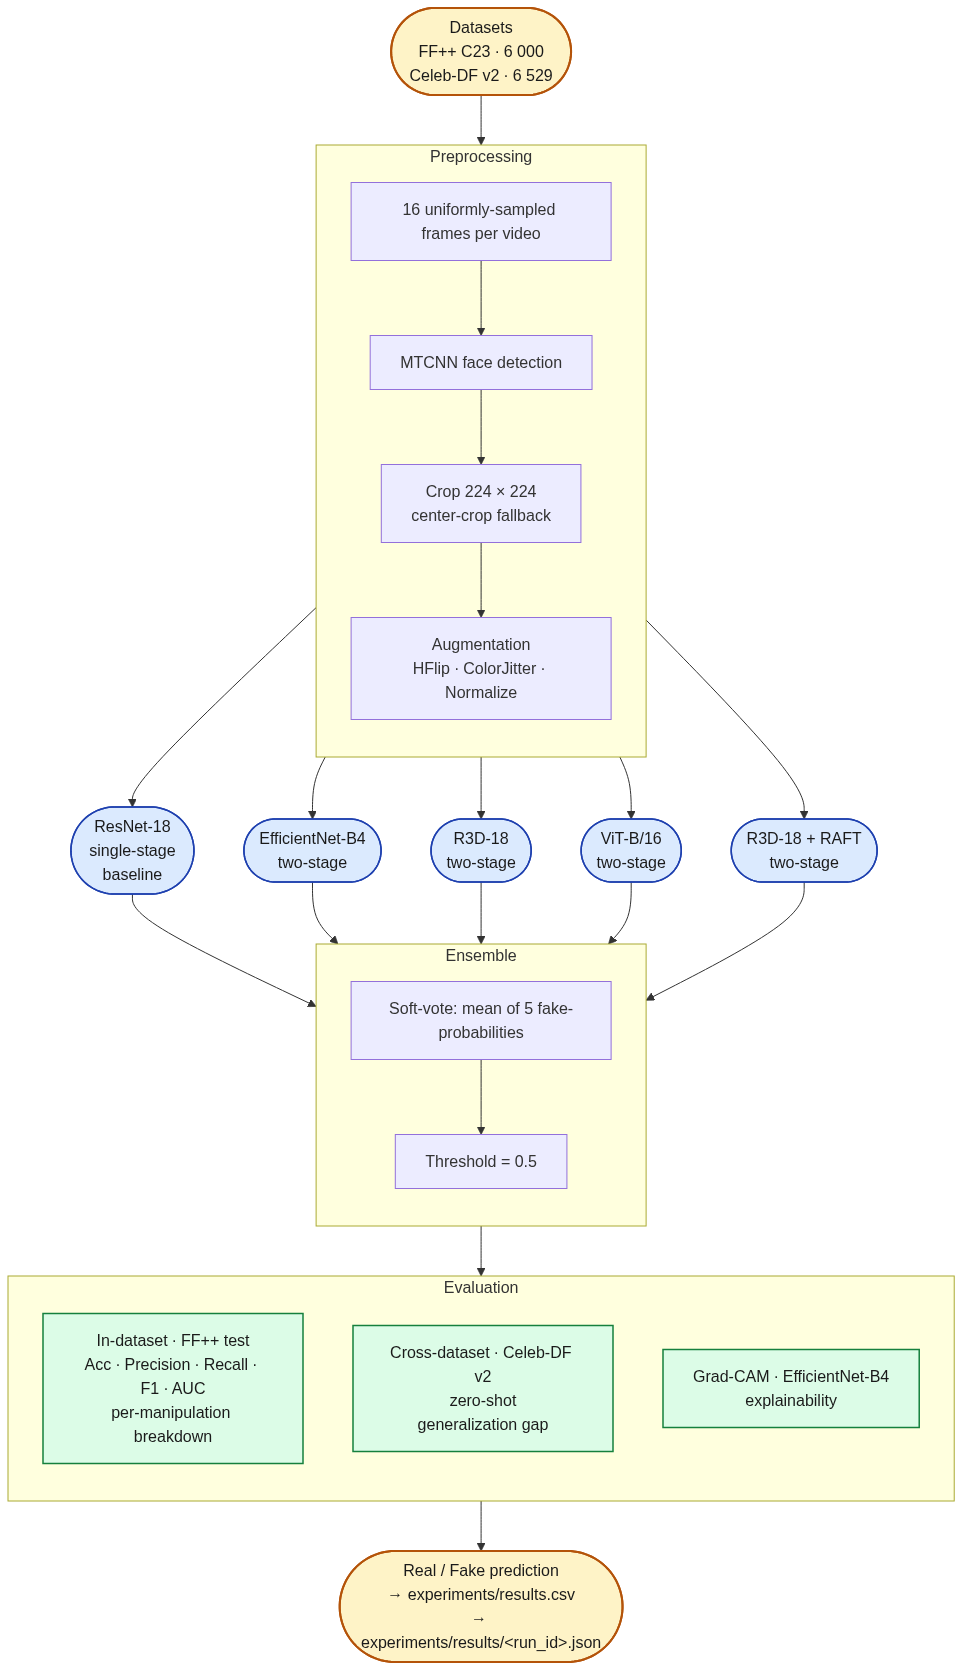
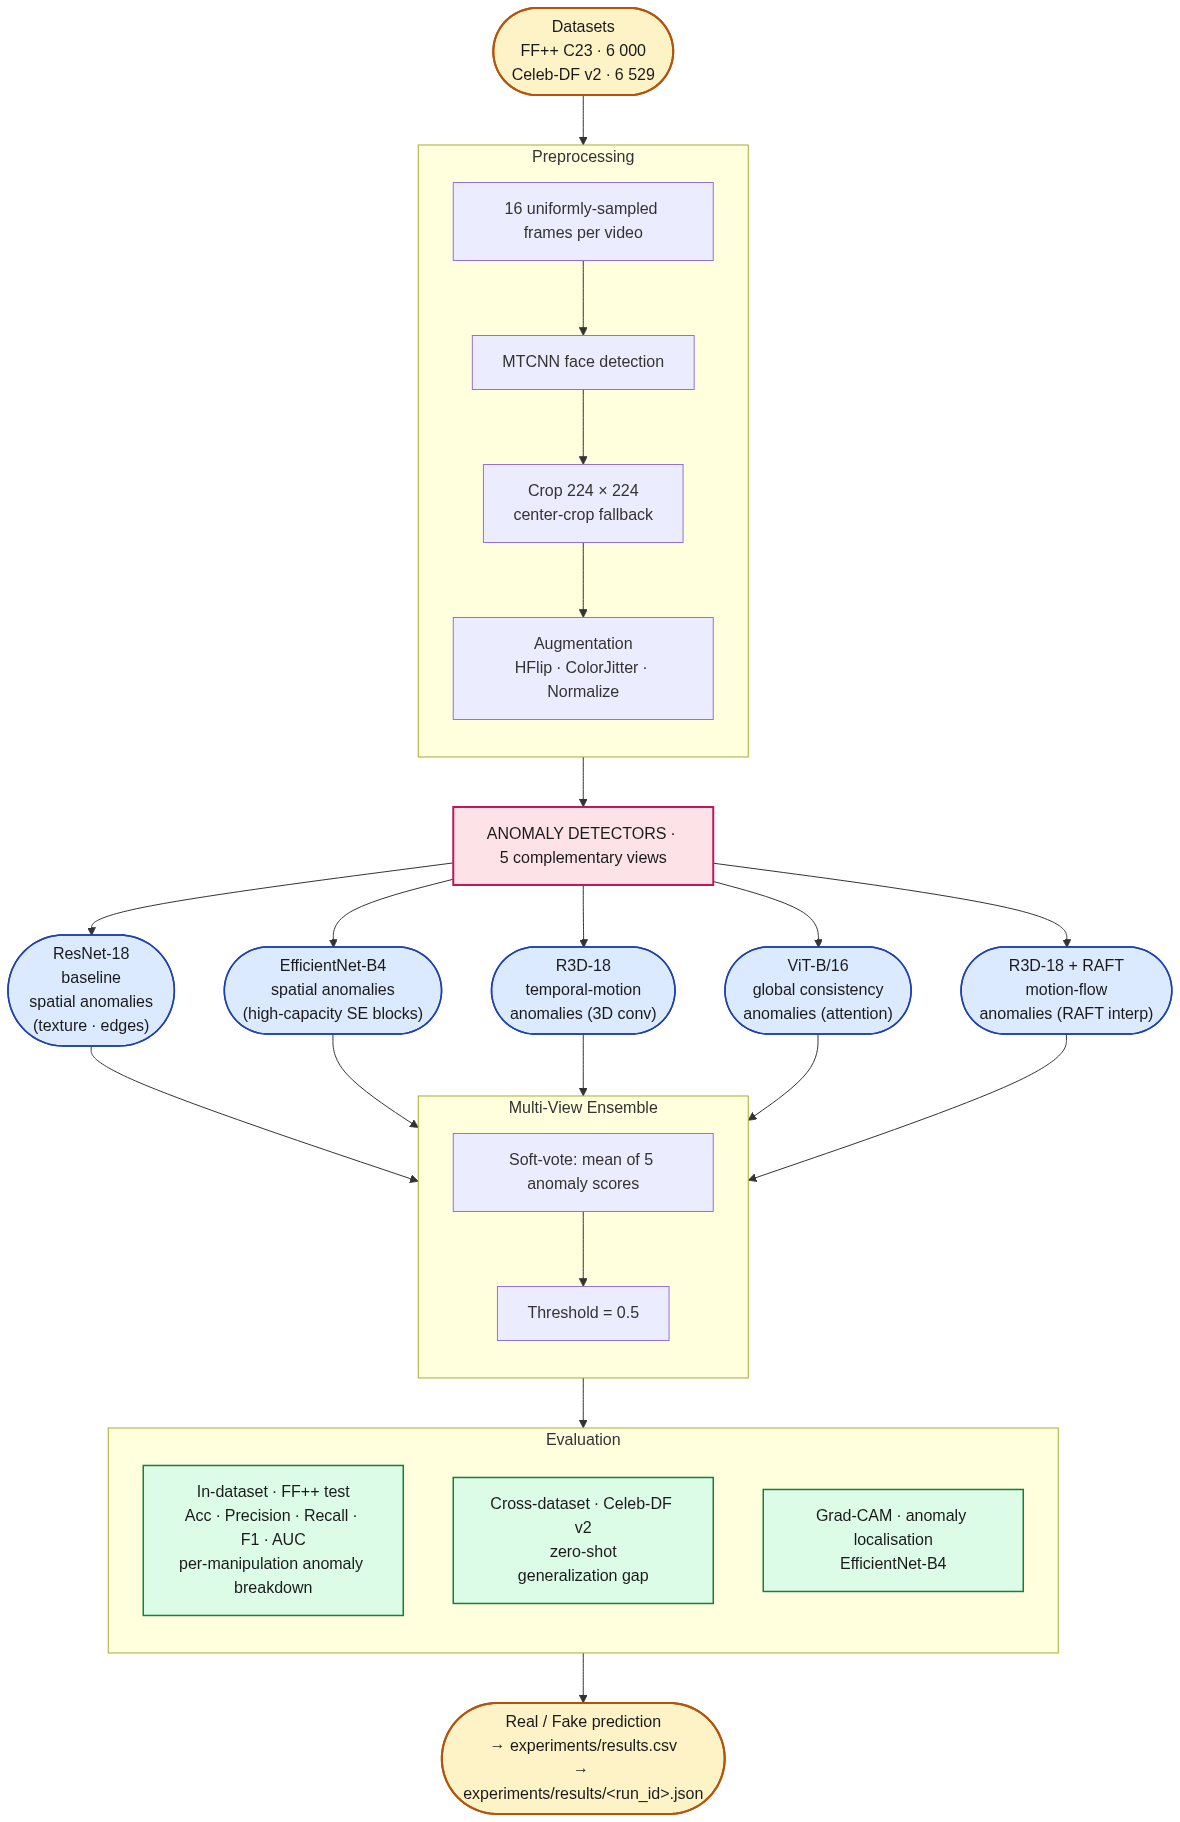
docs: add anomaly-detection framing to architecture diagram + paper sections

Changed region(s): [[0.0, 0.0, 0.9979, 0.9964]]

diff --git a/docs/design/paper_sections/anomaly_paragraphs.tex b/docs/design/paper_sections/anomaly_paragraphs.tex
@@ -1,0 +1,42 @@
+% ============================================================
+% Paper passages (Abstract + Introduction) threading the anomaly
+% detection framing through the paper's opening.
+% Paste these to replace the corresponding blocks in the draft.
+% ============================================================
+
+
+%% ------------------------------------------------------------
+%% ABSTRACT (replaces the template placeholder)
+%% ------------------------------------------------------------
+
+\begin{abstract}
+Deepfake detection is fundamentally an anomaly-detection problem: real faces occupy a manifold of plausible appearance and motion, and every face-manipulation technique introduces deviations from that manifold. Single-architecture detectors typically capture only one class of anomaly and consequently fail to transfer across datasets. We address this by framing detection as multi-view anomaly aggregation over five independently-trained models spanning three anomaly classes: spatial (ResNet-18 and EfficientNet-B4), global-consistency (Vision Transformer ViT-B/16), and temporal-motion (R3D-18, with and without RAFT optical-flow interpolation). Each model is trained on FaceForensics++ C23 under an identity-component-based split, and their per-video anomaly scores are combined via equal-weight soft voting. We evaluate in-dataset performance on FaceForensics++, zero-shot cross-dataset transfer on Celeb-DF v2, and per-manipulation breakdown across the five FaceForensics++ fake families. Grad-CAM overlays on the final convolutional stage of EfficientNet-B4 provide pixel-level anomaly localisation, confirming that detection attends to blending boundaries and manipulation-prone facial regions rather than spurious background cues. The ensemble's FaceForensics++ \(\rightarrow\) Celeb-DF generalisation gap quantifies the degree to which the learned anomaly signatures are dataset-specific versus transferable, and is the paper's primary empirical contribution.
+\end{abstract}
+
+
+%% ------------------------------------------------------------
+%% INTRODUCTION (augments the existing section with anomaly-framing paragraphs)
+%% Add these three paragraphs immediately after the current introductory paragraphs
+%% that discuss CNN-based detection and before the contributions list.
+%% ------------------------------------------------------------
+
+A productive lens on deepfake detection is to view it as a \textit{multi-view anomaly detection} problem. Real human faces inhabit a manifold in image and motion space that is continuous, internally consistent, and shaped by the physics of light, skin, and muscle. Generative methods — whether they swap identities, transfer expressions, or synthesise speech-driven mouth motion — are structurally incapable of reproducing this manifold exactly. They leave traces: inconsistencies in texture and lighting (spatial anomalies), misaligned relationships between facial landmarks (global consistency anomalies), and incoherent motion patterns across frames (temporal-motion anomalies). A detection model can therefore be understood as a classifier of manifold deviations, where the choice of architecture determines which class of deviation the model is sensitive to.
+
+This perspective motivates the use of multiple, complementary detectors rather than a single model. A per-frame 2D CNN is specialised for spatial-texture anomalies but structurally blind to motion artifacts. A 3D CNN captures motion but at a coarser spatial resolution. A Vision Transformer sees global relationships through attention but may miss fine-grained local cues. A hybrid that feeds optical-flow-interpolated frames into a 3D CNN converts a class of temporal anomalies into spatial ones visible to the same network. No single family dominates on every anomaly type, and recent cross-dataset studies corroborate this: models tend to overfit whichever anomaly class is most prevalent in their training data and fail on unseen data distributions where other anomaly classes dominate \cite{korshunov2022generalization, wang2023crossdf}.
+
+In this work we construct five detectors that together cover the three major anomaly classes, train each on FaceForensics++ C23 under a leakage-free identity split, and combine their per-video scores with equal-weight soft voting. The headline empirical question is whether this multi-view ensemble generalises to a disjoint test distribution (Celeb-DF v2) more reliably than any single detector, and whether the remaining generalisation gap can be explained post-hoc via Grad-CAM anomaly localisation.
+
+
+%% ------------------------------------------------------------
+%% CONTRIBUTIONS (replaces the existing bullet list with an anomaly-framed version)
+%% ------------------------------------------------------------
+
+The main contributions of this work are summarised as follows:
+
+\begin{itemize}
+    \item A framing of binary deepfake detection as multi-view anomaly detection, identifying three complementary anomaly classes (spatial, global-consistency, temporal-motion) and mapping each to an appropriate architectural family.
+    \item A five-model detection pipeline implementing this framing: ResNet-18 and EfficientNet-B4 for spatial anomalies, ViT-B/16 for global-consistency anomalies, and R3D-18 with and without RAFT optical-flow interpolation for temporal-motion anomalies, trained under a shared MTCNN-based preprocessing pipeline on FaceForensics++ C23 with an identity-component-based 70/15/15 split.
+    \item An equal-weight soft-vote ensemble that combines the five anomaly signatures, evaluated in-dataset on FaceForensics++ and zero-shot on Celeb-DF v2, with the FaceForensics++ \(\rightarrow\) Celeb-DF generalisation gap reported per model and for the ensemble.
+    \item A per-manipulation anomaly breakdown across the five FaceForensics++ fake families (Deepfakes, Face2Face, FaceSwap, NeuralTextures, FaceShifter), revealing which anomaly classes each manipulation technique exposes most strongly.
+    \item Grad-CAM anomaly-localisation overlays on EfficientNet-B4's final convolutional stage, providing pixel-level interpretability that confirms the model attends to manipulation-prone facial regions rather than spurious cues.
+\end{itemize}

diff --git a/docs/design/paper_sections/anomaly_detection.tex b/docs/design/paper_sections/anomaly_detection.tex
@@ -1,0 +1,23 @@
+% ============================================================
+% Paper section: Anomaly Detection Mechanism
+% Replaces the current vague IV.E in CS_668_Technical_Paper draft.
+% Intended location: Methodology section (IV), after the individual
+% model-architecture subsections.
+% ============================================================
+
+\subsection{Anomaly Detection Mechanism}
+\label{sec:anomaly}
+
+We frame binary deepfake detection as a \textit{supervised anomaly detection} problem. Real human faces, captured under natural conditions, occupy a high-dimensional manifold of plausible appearance and motion. Every manipulation technique — face-swap, face-reenactment, neural rendering, expression transfer — introduces subtle deviations from that manifold: traces that are imperceptible to casual human inspection but, by construction, cannot be eliminated entirely without also removing the manipulation itself. Our detection framework is designed to identify these deviations. Each of the five models learns a complementary signature of what an anomaly looks like, and the ensemble combines them into a single soft-vote score representing the probability that the input lies off the real-face manifold.
+
+We distinguish three classes of anomaly that our framework targets explicitly.
+
+\textbf{Spatial anomalies} are the artifacts of single-frame appearance: inconsistent skin-tone gradients around blending boundaries, over-smoothed texture in generated regions, mismatched lighting between the face and the surrounding scene, and compression-code residues introduced by the generator's decoder. These are captured by the per-frame 2D-CNN backbones. \textbf{ResNet-18} (the baseline) learns local spatial anomalies through its residual feature hierarchy; \textbf{EfficientNet-B4} learns the same class of anomalies at higher fidelity through its compound-scaled MBConv blocks with squeeze-excitation, which re-weight channels to emphasise regions with informative inter-channel correlations.
+
+\textbf{Global consistency anomalies} concern long-range relationships inside a single frame — the relative pose of eyes versus mouth, the alignment between nose and chin, the ratio of facial landmarks — which a local convolutional receptive field can miss. \textbf{ViT-B/16} targets this class through self-attention over $14 \times 14$ image patches, producing a holistic feature vector that captures whether the facial geometry as a whole is internally consistent, regardless of which local pixels look plausible.
+
+\textbf{Temporal-motion anomalies} concern inconsistencies across the 16-frame clip: jitter in lip-sync, discontinuous eye-blink patterns, flickering texture on a cheek between consecutive frames, and unrealistic optical flow around the jawline. Frame-level detectors are structurally blind to these. We cover them with two complementary clip-level models. \textbf{R3D-18} applies three-dimensional convolutions over the $(T, H, W)$ volume, learning spatiotemporal filters that fire on implausible motion patterns. \textbf{R3D-18 + RAFT} further amplifies this by feeding the 3D CNN a sequence of frames interpolated via the RAFT optical-flow model; the interpolated frames make inter-frame motion-flow artifacts visible to the network as spatial content, effectively converting a temporal anomaly into a spatial one that the 3D convolutions can detect directly.
+
+The ensemble aggregates these five anomaly signatures through equal-weight soft-voting (Section~\ref{sec:ensemble}). Because the five models detect different anomaly types, their errors are partially decorrelated: a carefully-constructed deepfake that evades the per-frame detectors by matching ImageNet texture statistics may still be caught by the 3D convolution if its motion pattern is off, and vice versa. The ensemble is therefore not merely a smoothing of predictions but a \textit{multi-view anomaly detector}.
+
+To make the detected anomalies interpretable, we apply Grad-CAM~\cite{selvaraju2017gradcam} to the final convolutional stage of EfficientNet-B4, producing heat-map overlays that localise the pixels most responsible for the ``fake'' logit. These visualisations confirm, post-hoc, whether the model is attending to anomaly regions (blending boundaries, mouth interior, eye sockets) or to spurious cues (background, lighting). Systematic review of Grad-CAM panels across per-manipulation subsets reveals which anomaly types each manipulation family exposes most strongly, providing both a sanity check on the model and an interpretability narrative suitable for downstream use in content-moderation workflows.

diff --git a/docs/design/diagrams/solution_architecture.md b/docs/design/diagrams/solution_architecture.md
@@ -1,6 +1,6 @@
 # Solution Architecture
 
-End-to-end workflow from raw video to real/fake prediction. This is the "how the system is wired together" view — see `model_architectures.md` for layer-level detail and equations.
+End-to-end workflow from raw video to real/fake prediction, framed as multi-view anomaly detection. Each model targets a different class of deepfake anomaly; the ensemble aggregates their predictions into a single soft-vote score.
 
 ```mermaid
 flowchart TB
@@ -17,17 +17,18 @@ flowchart TB
         P1 --> P2 --> P3 --> P4
     end
 
-    %% ==== models (parallel, independent) ====
-    M1(["ResNet-18<br/>single-stage<br/>baseline"])
-    M2(["EfficientNet-B4<br/>two-stage"])
-    M3(["R3D-18<br/>two-stage"])
-    M4(["ViT-B/16<br/>two-stage"])
-    M5(["R3D-18 + RAFT<br/>two-stage"])
+    %% ==== models as anomaly detectors ====
+    M0["ANOMALY DETECTORS · 5 complementary views"]
+    M1(["ResNet-18<br/>baseline<br/>spatial anomalies<br/>(texture · edges)"])
+    M2(["EfficientNet-B4<br/>spatial anomalies<br/>(high-capacity SE blocks)"])
+    M3(["R3D-18<br/>temporal-motion<br/>anomalies (3D conv)"])
+    M4(["ViT-B/16<br/>global consistency<br/>anomalies (attention)"])
+    M5(["R3D-18 + RAFT<br/>motion-flow<br/>anomalies (RAFT interp)"])
 
     %% ==== ensemble ====
-    subgraph E ["Ensemble"]
+    subgraph E ["Multi-View Ensemble"]
         direction TB
-        E1["Soft-vote: mean of 5 fake-probabilities"]
+        E1["Soft-vote: mean of 5 anomaly scores"]
         E2["Threshold = 0.5"]
         E1 --> E2
     end
@@ -35,9 +36,9 @@ flowchart TB
     %% ==== evaluation ====
     subgraph V ["Evaluation"]
         direction TB
-        V1["In-dataset · FF++ test<br/>Acc · Precision · Recall · F1 · AUC<br/>per-manipulation breakdown"]
+        V1["In-dataset · FF++ test<br/>Acc · Precision · Recall · F1 · AUC<br/>per-manipulation anomaly breakdown"]
         V2["Cross-dataset · Celeb-DF v2<br/>zero-shot<br/>generalization gap"]
-        V3["Grad-CAM · EfficientNet-B4<br/>explainability"]
+        V3["Grad-CAM · anomaly localisation<br/>EfficientNet-B4"]
     end
 
     %% ==== output ====
@@ -45,11 +46,12 @@ flowchart TB
 
     %% ==== flow ====
     D --> P
-    P --> M1
-    P --> M2
-    P --> M3
-    P --> M4
-    P --> M5
+    P --> M0
+    M0 --> M1
+    M0 --> M2
+    M0 --> M3
+    M0 --> M4
+    M0 --> M5
     M1 --> E
     M2 --> E
     M3 --> E
@@ -60,16 +62,28 @@ flowchart TB
 
     %% ==== styling ====
     classDef dataNode fill:#fef3c7,stroke:#b45309,stroke-width:2px,color:#1a1a1a
+    classDef headerNode fill:#fde2e8,stroke:#be185d,stroke-width:2px,color:#1a1a1a
     classDef modelNode fill:#dbeafe,stroke:#1e40af,stroke-width:1.5px,color:#1a1a1a
     classDef evalNode fill:#dcfce7,stroke:#15803d,stroke-width:1.5px,color:#1a1a1a
     class D,O dataNode
+    class M0 headerNode
     class M1,M2,M3,M4,M5 modelNode
     class V1,V2,V3 evalNode
 ```
 
 ## Key notes
 
-- **Parallel, not sequential.** Each model trains and predicts independently on the same preprocessed data. No model ever sees another model's weights or intermediate features. The ensemble combines **predictions only**.
-- **Baseline vs advanced** have deliberately different training recipes; evaluation is identical across all five so the leaderboard comparison is apples-to-apples.
-- **Device priority** is `cuda → mps → cpu` via `src.training.pick_device()`, so the same notebooks run unchanged on Colab (A100) and local Apple Silicon (MPS).
+- **Anomaly detection framing.** Real faces occupy a learnable manifold; every deepfake manipulation introduces deviations from it. Each of the five models learns a *different class* of anomaly signature. The ensemble aggregates these complementary views.
+
+| Model | Anomaly class targeted | Architectural mechanism |
+|---|---|---|
+| ResNet-18 | Spatial (local texture, edges) | 4 residual stages with 2D convs |
+| EfficientNet-B4 | Spatial (high-capacity) | 7 MBConv stages with squeeze-excitation |
+| R3D-18 | Temporal-motion | 3D convolutions over (T, H, W) |
+| ViT-B/16 | Global consistency | Self-attention over 14 × 14 patches |
+| R3D-18 + RAFT | Motion-flow | 3D convs on RAFT-interpolated frames |
+
+- **Ensemble as multi-view anomaly detector.** Because the five detectors operate on different feature classes, their errors are partially decorrelated. A deepfake that evades per-frame detection by matching natural texture statistics may still be caught by the 3D-conv model because its motion is off, and vice versa.
+- **Parallel, not sequential.** Each model trains and predicts independently on the same preprocessed data. No model ever sees another model's weights or intermediate features.
+- **Device priority** is `cuda → mps → cpu` via `src.training.pick_device()`. Same notebooks run unchanged on Colab (A100/L4) and local Apple Silicon (MPS).
 - **Experiment tracking**: every run writes a row to `experiments/results.csv` (leaderboard) and a JSON file to `experiments/results/` (full provenance).